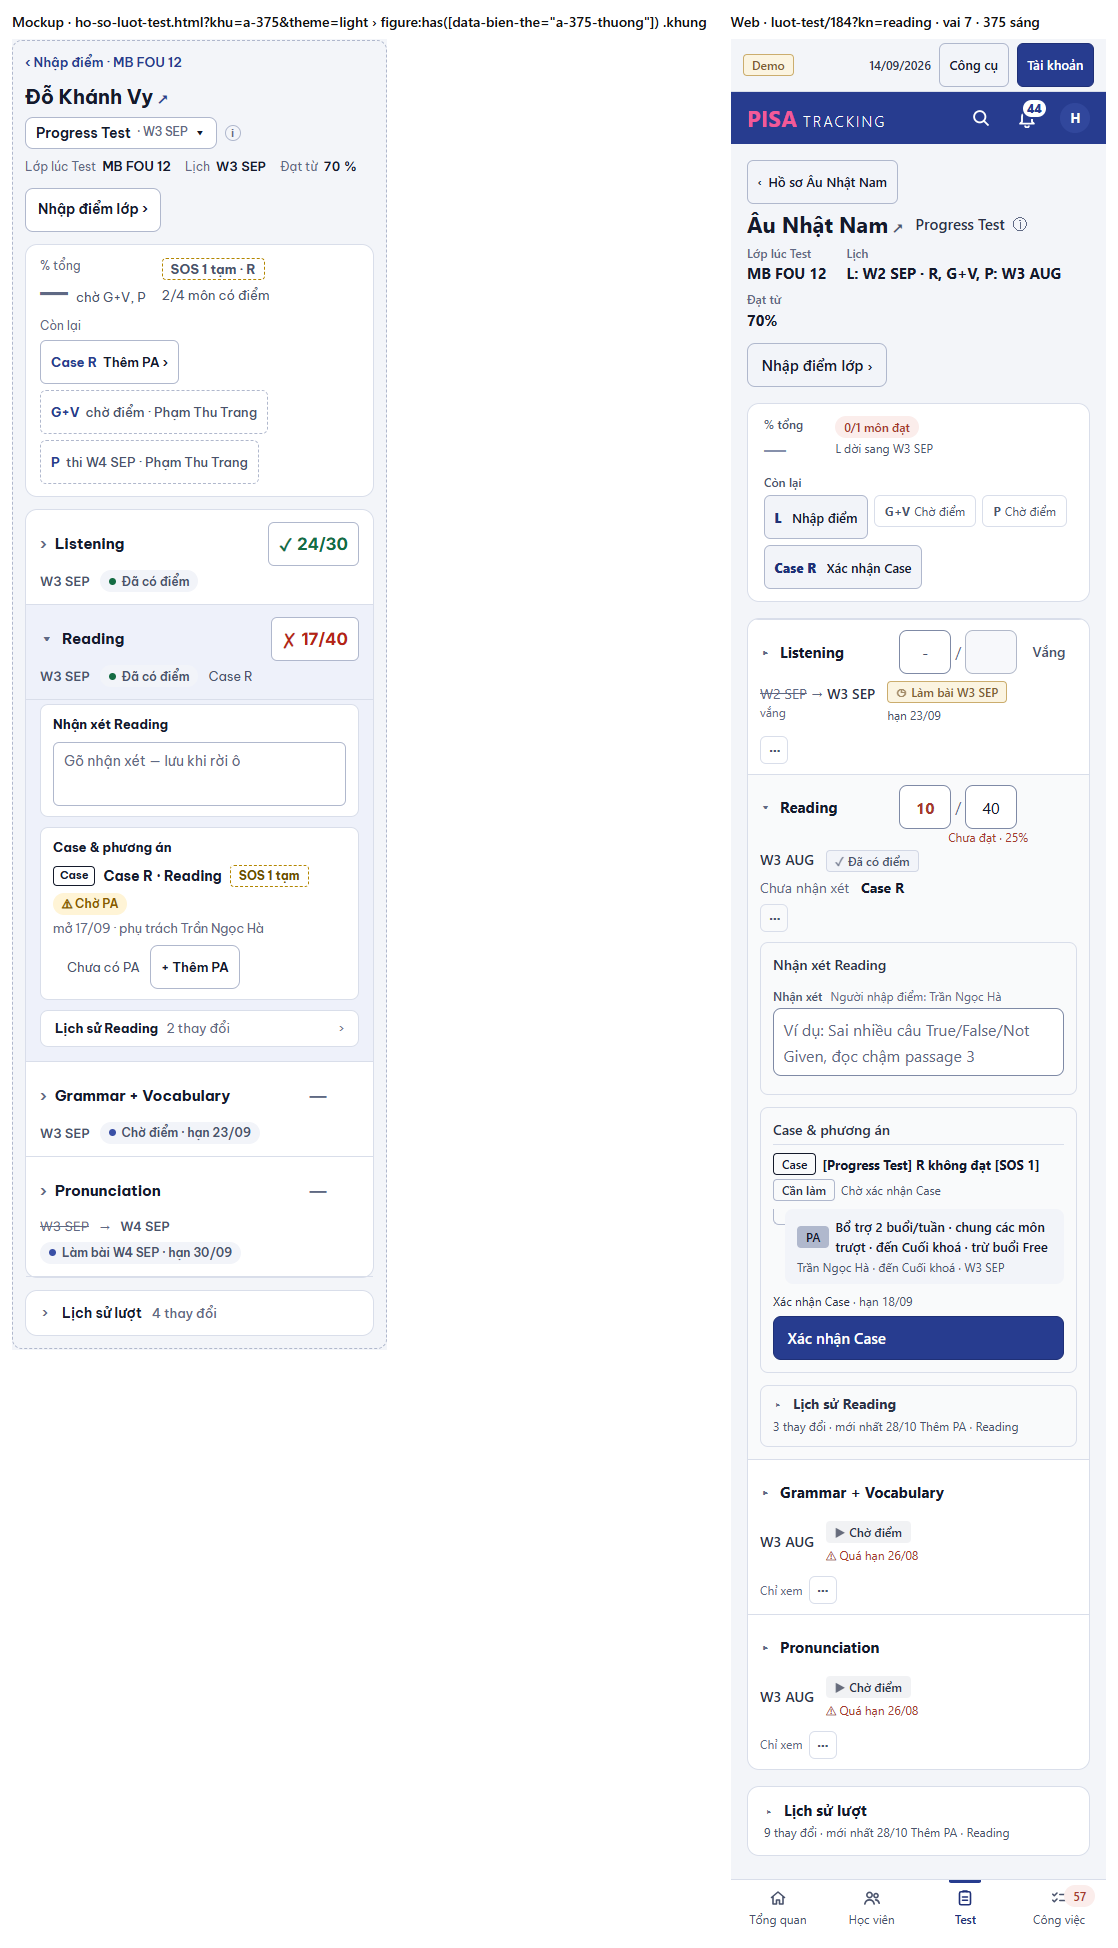
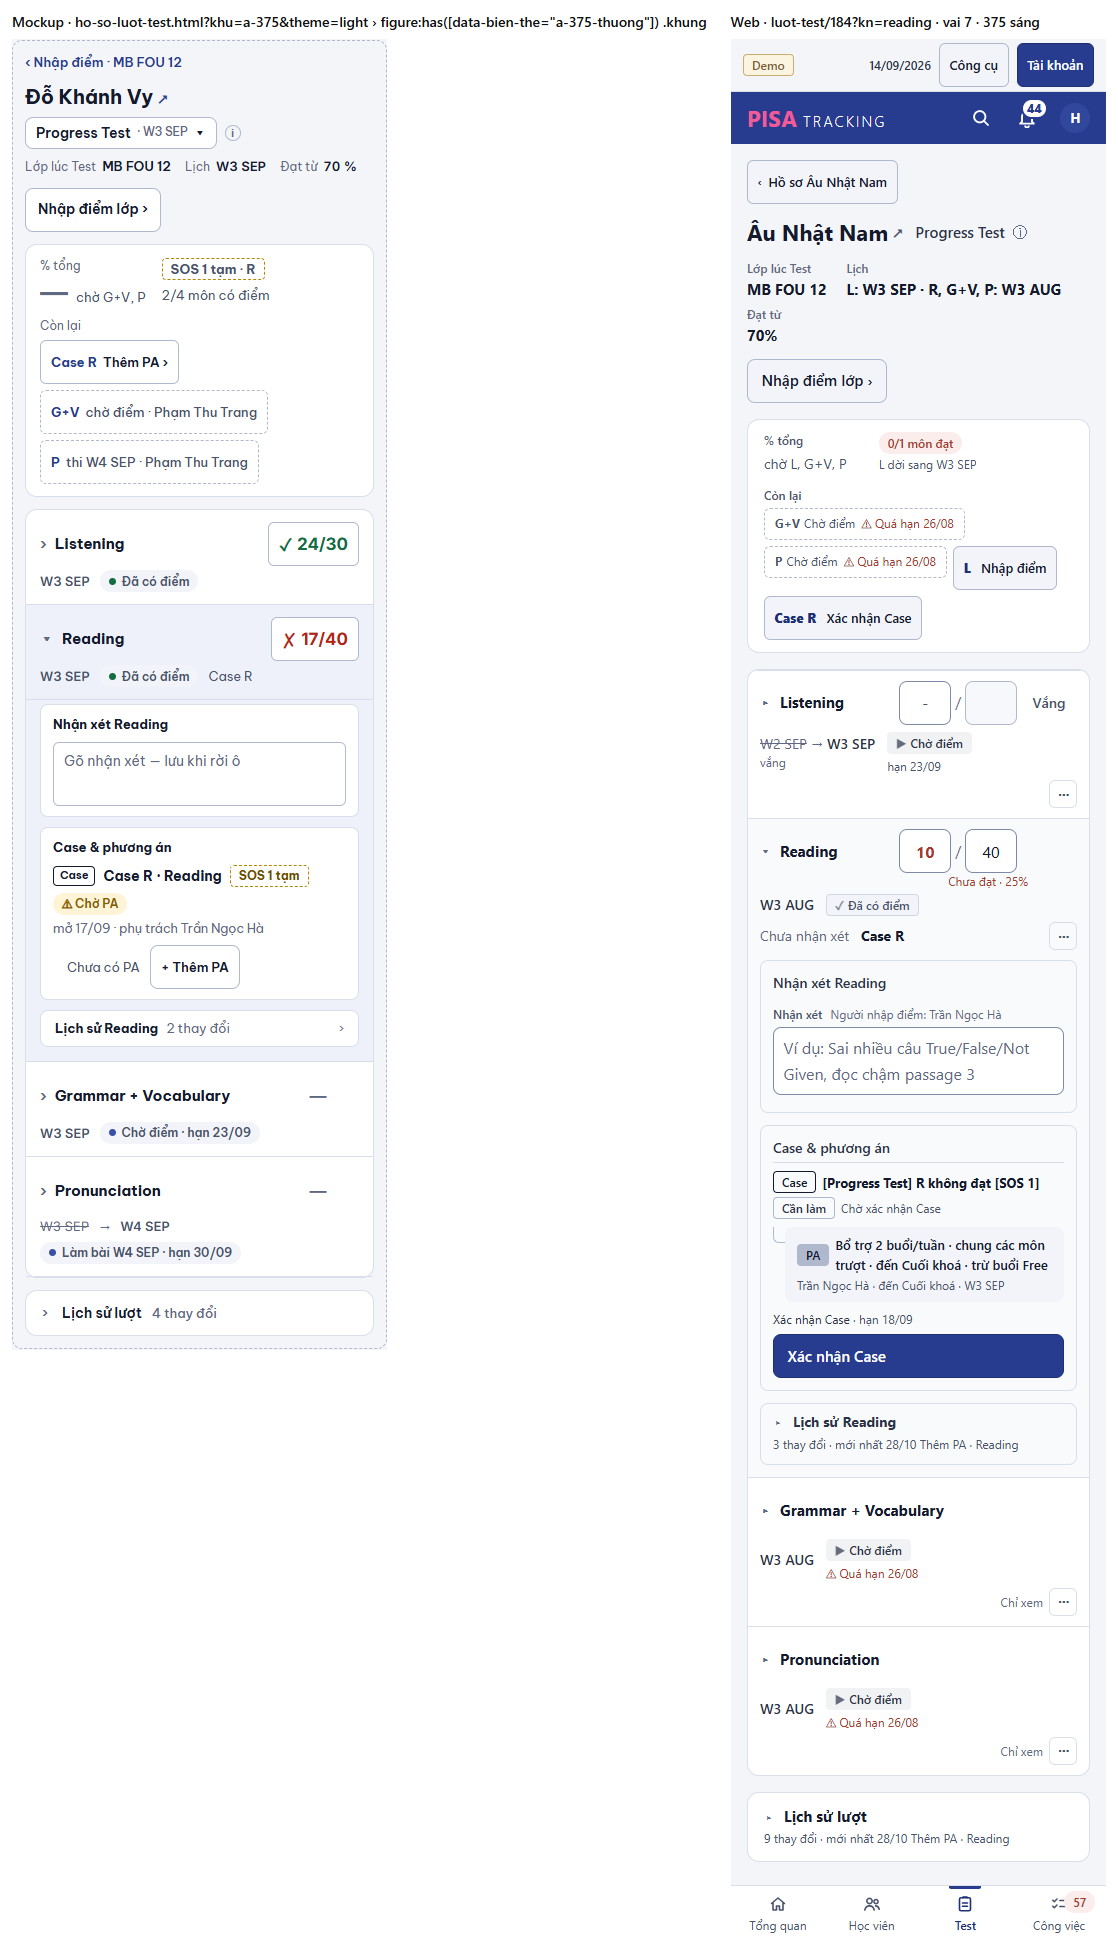
HSL-LT: sửa theo impeccable critique (28 → 31/40, 0 P0/P1): kết quả bằng chữ ✗/✓ Đạt · %, một môn một tên trạng thái, quá hạn ở Còn lại (viền đứt cho việc người khác), cột Case đúng trạng thái, aria-colindex, ⋯ cùng hàng ở 375; khop-khac ghi điểm + tỉ lệ KHỚP, XM Để sau

diff --git a/web/src/modules/fasttrack/LuotThuongPage.tsx b/web/src/modules/fasttrack/LuotThuongPage.tsx
@@ -28,7 +28,7 @@ import { KetQua, oThuong, useLuuThuong, type ThuongSheet } from '../cham/LuoiThu
 import { DauO, VIEN_LOI } from '../cham/LuoiFT.tsx';
 import { NganLichSuBai } from '../cham/NganLichSuBai.tsx';
 import { HopThaoTacMt, THAO_TAC_CO_HOP } from './HopThaoTacMt.tsx';
-import { KHOA_HOAN_TAT_HINT, ODiemThuong } from './ScoreEntry.tsx';
+import { KHOA_HOAN_TAT_HINT, ODiemThuong, datPhanTram } from './ScoreEntry.tsx';
 import { ONhanXet } from './NhanXet.tsx';
 import { CaseLuotKn } from './CaseLuotKn.tsx';
 import { dongLuot, type LichSuCase } from './DongThoiGianLuot.tsx';
@@ -142,7 +142,7 @@ export default function LuotThuongPage() {
           <div className="flex flex-wrap items-center gap-x-3 gap-y-1.5">
             <h1 className="m-0 min-w-0 break-words text-xl font-bold text-slate-100">
               <span className="sr-only">{t('Hồ sơ lượt Test ·')} </span>
-              <Link to={`/hoc-vien/${r.studentId}`} className="text-inherit no-underline hover:underline" title={t('Hồ sơ học viên')}>
+              <Link to={`/hoc-vien/${r.studentId}`} className="text-inherit no-underline hover:underline max-sm:inline-flex max-sm:min-h-[44px] max-sm:items-center" title={t('Hồ sơ học viên')}>
                 {r.studentName}<span aria-hidden className="ml-1 text-base text-slate-400">↗</span>
               </Link>
             </h1>
@@ -154,7 +154,6 @@ export default function LuotThuongPage() {
                 <dl className="m-0 grid gap-2">
                   <Info label={t('Chương trình')}>{d.programme.name}</Info>
                   {d.class.branchName && <Info label={t('Chi nhánh')}>{d.class.branchName}</Info>}
-                  <Info label={t('Hạn chấm')}>{r.deadline ? t('hạn {ngay}', { ngay: ngay(r.deadline, homNay) }) : '—'}</Info>
                 </dl>
               </NutLuat>
             </span>
@@ -173,11 +172,11 @@ export default function LuotThuongPage() {
       <section aria-label={t('Tóm tắt lượt')} className="card flex flex-wrap items-start gap-x-8 gap-y-3 px-4 py-3">
         <div className="min-w-0">
           <span className="block text-xs font-medium text-slate-400">{t('% tổng')}</span>
-          {/* Chỉ khi đủ môn (`tyLeTong`); môn còn thiếu đã nằm ở dòng phụ của Kết quả — không lặp. */}
+          {/* Chỉ khi đủ môn (`tyLeTong`); chưa đủ → "chờ G+V, P" (khung) thay dấu "—" to. */}
           <span className="mt-1 block">
             {r.result.tyLeTong != null
               ? <span className="text-xl font-bold leading-none tabular-nums text-slate-100">{Math.round(r.result.tyLeTong * 100)}%</span>
-              : <span className="text-xl font-bold leading-none text-slate-600">—</span>}
+              : <span className="text-sm text-slate-400">{huy ? '—' : t('chờ {x}', { x: r.result.skills.filter((x) => x.outcome === 'missing').map((x) => tenMonNgan(ct, x.skill)).join(', ') })}</span>}
           </span>
         </div>
         <div className="min-w-0 sm:pt-4">
@@ -190,13 +189,14 @@ export default function LuotThuongPage() {
       <section aria-label={t('Kết quả theo môn')} className="card overflow-hidden p-0">
         <div role="table" aria-label={t('Kết quả theo môn')}>
           <div role="row" className={`${LUOI_MON} hidden px-3 py-2 text-[12px] font-semibold text-slate-500 md:grid`}>
-            <div role="columnheader">{t('Môn')}</div>
-            <div role="columnheader">{t('Lịch')}</div>
-            <div role="columnheader">{t('Điểm')}</div>
-            <div role="columnheader">{t('Trạng thái')}</div>
-            <div role="columnheader">{t('Nhận xét')}</div>
-            <div role="columnheader">Case</div>
-            <div role="columnheader"><span className="sr-only">{t('Thao tác')}</span></div>
+            {/* aria-colindex: ô Điểm đứng trước ô Lịch trong DOM (thẻ 375) — trình đọc màn vẫn ghép đúng tên cột. */}
+            <div role="columnheader" aria-colindex={1}>{t('Môn')}</div>
+            <div role="columnheader" aria-colindex={2}>{t('Lịch')}</div>
+            <div role="columnheader" aria-colindex={3}>{t('Điểm')}</div>
+            <div role="columnheader" aria-colindex={4}>{t('Trạng thái')}</div>
+            <div role="columnheader" aria-colindex={5}>{t('Nhận xét')}</div>
+            <div role="columnheader" aria-colindex={6}>Case</div>
+            <div role="columnheader" aria-colindex={7}><span className="sr-only">{t('Thao tác')}</span></div>
           </div>
           {d.programme.skills.filter((k) => r.skillSchedule.some((s) => s.skill === k)).map((k) => (
             <DongMon key={k} d={d} k={k} homNay={homNay} chiDoc={chiDoc} hep={hep} luu={luu} mo={moKn === k} thaoTac={thaoTac(k)}
@@ -246,13 +246,12 @@ export default function LuotThuongPage() {
   );
 }
 
-/** Tuần thi của lượt: một tuần → tuần đó; nhiều tuần → "L, R: W3 SEP · P: W4 SEP". Môn dời bằng "-" giữ tuần gốc (cột Lịch ghi tuần mới). */
+/** Tuần thi của lượt: một tuần → tuần đó; nhiều tuần → "L, R: W3 SEP · P: W4 SEP". Tuần đang xếp của từng môn (môn dời bằng "-": tuần gốc gạch ở cột Lịch). */
 function tuanLuot(r: Dong, ct: string | null, homNay: string): string | null {
   const nhom: { tuan: string; mon: string[] }[] = [];
   for (const s of r.skillSchedule) {
-    const w = s.noShow && s.movedFromStart ? s.movedFromStart : s.weekStart;
-    if (!w) continue;
-    const tuan = tuanLich(w, homNay);
+    if (!s.weekStart) continue;
+    const tuan = tuanLich(s.weekStart, homNay);
     const cu = nhom.find((n) => n.tuan === tuan);
     if (cu) cu.mon.push(tenMonNgan(ct, s.skill)); else nhom.push({ tuan, mon: [tenMonNgan(ct, s.skill)] });
   }
@@ -287,16 +286,16 @@ function conLaiThuong(d: ChiTiet, homNay: string, theCase: Map<number, CaseCard>
   for (const k of d.programme.skills) {
     const s = r.skillSchedule.find((x) => x.skill === k);
     if (!s) continue;
-    const { cell, trong } = oThuong(r, k, homNay);
+    const { cell, trong, quaHan } = oThuong(r, k, homNay);
     const n = tenMonNgan(ct, k);
-    const cua = (viec: string, chon: string | null) => ds.push({ khoa: `${k}:${viec}`, nhan: n, viec, mo: chon !== null && !chiDoc ? () => mo.moDong(k, chon) : undefined });
+    const cua = (viec: string, chon: string | null) => ds.push({ khoa: `${k}:${viec}`, nhan: n, viec, quaHan, mo: chon !== null && !chiDoc ? () => mo.moDong(k, chon) : undefined });
     if (cell.diem !== null || s.khongDuThi) continue;
     if (s.progress === 'absent') {
       const chinh = thaoTac(k).chinh;
       cua(CHU_THAO_TAC['xep-lai'], chinh === 'xep-lai' ? '[data-chinh]' : null);
     } else if (trong) cua(CHU_THAO_TAC['nhap-diem'], 'input');
     else if (s.progress === 'due' || s.progress === 'sat') cua(t('Chờ điểm'), null);
-    else if (s.noShow && s.weekStart) cua(t('Làm bài {tuan}', { tuan: tuanLich(s.weekStart, homNay) }), null);
+    else if (s.progress === 'upcoming' && s.noShow && s.weekStart) cua(t('Làm bài {tuan}', { tuan: tuanLich(s.weekStart, homNay) }), null);
   }
   for (const c of r.cases) {
     const the = theCase.get(c.id);
@@ -314,7 +313,7 @@ function conLaiThuong(d: ChiTiet, homNay: string, theCase: Map<number, CaseCard>
 function DongMon({ d, k, homNay, chiDoc, hep, luu, mo, thaoTac, caseChu, onMo, onThaoTac, onLichSu, vungCase, lichSu }: {
   d: ChiTiet; k: string; homNay: string; chiDoc: boolean; hep: boolean; luu: ReturnType<typeof useLuuThuong>;
   mo: boolean; thaoTac: { chinh: ThaoTac | null; menu: ThaoTac[] };
-  /** Trạng thái Case đại diện của môn (thẻ hồ sơ HV — `trangThaiV4`), dòng phụ cột Case. */
+  /** Dòng phụ cột Case: trạng thái Case đại diện của môn (thẻ hồ sơ HV — `trangThaiV4`), cùng chữ với khối Case. */
   caseChu: string | null;
   onMo: () => void; onThaoTac: (x: ThaoTac) => void; onLichSu: () => void; vungCase: ReactNode; lichSu: ReactNode;
 }) {
@@ -330,7 +329,7 @@ function DongMon({ d, k, homNay, chiDoc, hep, luu, mo, thaoTac, caseChu, onMo, o
   const tt: { chu: string; kind: 'done' | 'idle' | 'doing' | 'waiting' } = coDiem ? { chu: t('Đã có điểm'), kind: 'done' }
     : s.khongDuThi ? { chu: t('Vắng'), kind: 'idle' }
     : dung ? { chu: chuDung!, kind: s.progress === 'absent' ? 'waiting' : 'idle' }
-    : s.progress === 'upcoming' || (s.noShow && s.weekStart) ? { chu: t('Làm bài {tuan}', { tuan: s.weekStart ? tuanLich(s.weekStart, homNay) : '—' }), kind: 'waiting' }
+    : s.progress === 'upcoming' ? { chu: t('Làm bài {tuan}', { tuan: s.weekStart ? tuanLich(s.weekStart, homNay) : '—' }), kind: 'waiting' }
     : { chu: t('Chờ điểm'), kind: 'doing' };
   const han = !coDiem && !dung && !s.khongDuThi && s.deadline ? (quaHan ?? t('hạn {ngay}', { ngay: ngay(s.deadline, homNay) })) : null;
   const cs = r.cases.filter((c) => c.skill === k);
@@ -340,13 +339,13 @@ function DongMon({ d, k, homNay, chiDoc, hep, luu, mo, thaoTac, caseChu, onMo, o
   return (
     <div className={`border-t ${mo ? 'bg-white/[0.025]' : ''}`} style={{ borderColor: 'var(--line)' }}>
       <div id={`kn-${k}`} role="row" onClick={bamDong} className={`${LUOI_MON} cursor-pointer scroll-mt-4 px-3 py-2.5`}>
-        <div role="cell" className="min-w-0">
+        <div role="cell" aria-colindex={1} className="min-w-0">
           <button type="button" aria-expanded={mo} aria-controls={mo ? `vung-${k}` : undefined} onClick={onMo}
             className="inline-flex min-h-[44px] items-center gap-2 border-0 bg-transparent p-0 text-left text-[15px] font-bold text-slate-100 sm:min-h-0">
             <span aria-hidden className="w-3 text-xs text-slate-500">{mo ? '▾' : '▸'}</span>{ten}
           </button>
         </div>
-        <div role="cell" className={`justify-self-end md:col-start-3 md:row-start-1 md:justify-self-start ${luu.o[k] === 'loi' ? `rounded-md ${VIEN_LOI}` : ''}`} data-kn={k}>
+        <div role="cell" aria-colindex={3} className={`justify-self-end md:col-start-3 md:row-start-1 md:justify-self-start ${luu.o[k] === 'loi' ? `rounded-md ${VIEN_LOI}` : ''}`} data-kn={k}>
           <span className="inline-flex flex-col items-end gap-0.5 md:items-start">
             <span className="inline-flex items-center gap-1">
               <DauO lon={hep} tt={luu.o[k]} loi={luu.loi[k]} onLuuLai={() => luu.luuLai(k)} />
@@ -355,14 +354,16 @@ function DongMon({ d, k, homNay, chiDoc, hep, luu, mo, thaoTac, caseChu, onMo, o
                   onSave={(p, o) => luu.luu(k, p, o)} onDau={(bat) => luu.dau(k, bat)} onLoiNhap={(x) => luu.loiNhap(k, x)} />
               )}
             </span>
-            {/* Ô cỡ lớn (375) đã có "Đạt · 80%" dưới hai số. */}
-            {coDiem && cell.tiLe != null && !hep && (
-              <span className={`text-xs tabular-nums ${cell.ketQua === 'fail' ? 'text-kq-duoi' : 'text-slate-400'}`}>{Math.round(cell.tiLe * 100)}%</span>
+            {/* Kết quả bằng chữ, không chỉ màu (G12): "✗ Chưa đạt · 25%" — ô cỡ lớn (375) tự có "Chưa đạt · 25%" dưới hai số. */}
+            {coDiem && !hep && datPhanTram(cell.ketQua, cell.tiLe) && (
+              <span className={`text-xs tabular-nums ${cell.ketQua === 'fail' ? 'text-kq-duoi' : 'text-slate-400'}`}>
+                {cell.ketQua === 'fail' ? '✗ ' : '✓ '}{datPhanTram(cell.ketQua, cell.tiLe)}
+              </span>
             )}
           </span>
         </div>
         <div className="col-span-2 flex flex-wrap items-center gap-x-3 gap-y-1 md:contents">
-          <div role="cell" className="text-sm md:col-start-2 md:row-start-1">
+          <div role="cell" aria-colindex={2} className="text-sm md:col-start-2 md:row-start-1">
             {s.weekStart ? (
               <span className="tabular-nums">
                 {goc && <><s className="whitespace-nowrap text-slate-500" title={t('Lịch gốc')}>{goc}</s><span className="mx-1 text-slate-500">→</span></>}
@@ -371,18 +372,18 @@ function DongMon({ d, k, homNay, chiDoc, hep, luu, mo, thaoTac, caseChu, onMo, o
               </span>
             ) : <Tag pending>{t('Chưa xếp tuần')}</Tag>}
           </div>
-          <div role="cell" className="min-w-0 space-y-1 md:col-start-4 md:row-start-1">
+          <div role="cell" aria-colindex={4} className="min-w-0 space-y-1 md:col-start-4 md:row-start-1">
             <Status kind={tt.kind}>{tt.chu}</Status>
             {han && <div className={`text-xs ${quaHan ? 'text-late' : 'text-slate-400'}`}>{quaHan ? `⚠ ${han}` : han}</div>}
           </div>
         </div>
-        <div className="col-span-2 flex flex-wrap items-baseline gap-x-3 gap-y-1 text-sm md:contents">
-          <div role="cell" className="min-w-0 md:col-start-5 md:row-start-1">
+        <div className="col-span-2 flex flex-wrap items-center gap-x-3 gap-y-1 text-sm md:contents">
+          <div role="cell" aria-colindex={5} className="min-w-0 md:col-start-5 md:row-start-1">
             {s.nhanXet ? <span className="text-slate-300">{[t('Có'), nguoiNhap].filter(Boolean).join(' · ')}</span>
               /* N8: lớp thường không bắt buộc nhận xét — chữ mờ, không màu nhắc như FT (V15). */
               : coDiem ? <span className="text-slate-500">{t('Chưa nhận xét')}</span> : <span className="text-slate-500 max-md:hidden">—</span>}
           </div>
-          <div role="cell" className="min-w-0 md:col-start-6 md:row-start-1">
+          <div role="cell" aria-colindex={6} className="min-w-0 md:col-start-6 md:row-start-1">
             {!cs.length ? <span className="text-slate-500 max-md:hidden">—</span> : (
               <span className="flex min-w-0 flex-col">
                 <b className="text-slate-100">Case {tenMonNgan(ct, k)}{cs.length > 1 && <span className="font-normal text-slate-400"> +{cs.length - 1}</span>}</b>
@@ -390,18 +391,19 @@ function DongMon({ d, k, homNay, chiDoc, hep, luu, mo, thaoTac, caseChu, onMo, o
               </span>
             )}
           </div>
-        </div>
-        <div role="cell" className="col-span-2 flex flex-wrap items-center gap-1.5 md:col-span-1 md:col-start-7 md:row-start-1 md:justify-end">
-          {thaoTac.chinh && !chiDoc && (
-            <button type="button" data-chinh className="btn btn-sm btn-primary min-h-[44px] sm:min-h-0" onClick={() => onThaoTac(thaoTac.chinh!)}>{CHU_THAO_TAC[thaoTac.chinh]}</button>
-          )}
-          {!thaoTac.chinh && !chiDoc && !canEdit && !huy && (
-            <span className="text-xs text-slate-500" title={t('Bạn không được phân công kỹ năng này')}>{t('Chỉ xem')}</span>
-          )}
-          <MenuDong nhan={t('Thao tác khác · {skillLabel}', { skillLabel: ten })} muc={[
-            ...(chiDoc ? [] : thaoTac.menu).map((x) => ({ key: x, nhan: CHU_THAO_TAC[x], onChon: () => onThaoTac(x), nguyHiem: x === 'huy-diem' })),
-            { key: 'lich-su', nhan: t('Lịch sử'), onChon: onLichSu, keTruoc: !chiDoc && thaoTac.menu.length > 0 },
-          ]} />
+          {/* ⋯ cùng hàng Nhận xét · Case ở điện thoại; màn rộng là cột cuối (md:contents). */}
+          <div role="cell" aria-colindex={7} className="ml-auto flex flex-wrap items-center gap-1.5 md:col-start-7 md:row-start-1 md:ml-0 md:justify-end">
+            {thaoTac.chinh && !chiDoc && (
+              <button type="button" data-chinh className="btn btn-sm btn-primary min-h-[44px] sm:min-h-0" onClick={() => onThaoTac(thaoTac.chinh!)}>{CHU_THAO_TAC[thaoTac.chinh]}</button>
+            )}
+            {!thaoTac.chinh && !chiDoc && !canEdit && !huy && (
+              <span className="text-xs text-slate-500" title={t('Bạn không được phân công kỹ năng này')}>{t('Chỉ xem')}</span>
+            )}
+            <MenuDong nhan={t('Thao tác khác · {skillLabel}', { skillLabel: ten })} muc={[
+              ...(chiDoc ? [] : thaoTac.menu).map((x) => ({ key: x, nhan: CHU_THAO_TAC[x], onChon: () => onThaoTac(x), nguyHiem: x === 'huy-diem' })),
+              { key: 'lich-su', nhan: t('Lịch sử'), onChon: onLichSu, keTruoc: !chiDoc && thaoTac.menu.length > 0 },
+            ]} />
+          </div>
         </div>
       </div>
       {mo && (

diff --git a/web/src/modules/fasttrack/MockDetailPage.tsx b/web/src/modules/fasttrack/MockDetailPage.tsx
@@ -463,15 +463,17 @@ export function ConLaiLuot({ ds: conLai }: { ds: ViecConLai[] }) {
       <span className="block text-xs font-medium text-slate-400">{conLai.length ? t('Còn lại') : t('Không còn việc')}</span>
       {conLai.length > 0 && (
         <ul className="m-0 mt-1 flex list-none flex-wrap gap-1.5 p-0 sm:justify-end">
-          {conLai.map((v) => (
+          {[...conLai].sort((a, b) => Number(!!b.quaHan) - Number(!!a.quaHan)).map((v) => (
             <li key={v.khoa} className="min-w-0 max-w-full">
               {v.mo ? (
                 <button type="button" className="btn btn-sm min-h-[44px] max-w-full sm:min-h-0" onClick={v.mo}>
                   <b className="mr-1 text-[color:var(--accent-strong)]">{v.nhan}</b><span className="min-w-0 max-w-[16rem] truncate" title={v.viec}>{v.viec}</span>
+                  {v.quaHan && <span className="ml-1.5 whitespace-nowrap text-late">⚠ {v.quaHan}</span>}
                 </button>
               ) : (
-                <span className="inline-flex min-h-[32px] items-center rounded-md border px-2.5 text-xs text-slate-400" style={{ borderColor: 'var(--line)' }}>
+                <span className="inline-flex min-h-[32px] items-center rounded-md border border-dashed px-2.5 text-xs text-slate-400" style={{ borderColor: 'var(--line-strong)' }}>
                   <b className="mr-1 text-slate-300">{v.nhan}</b><span className="max-w-[16rem] truncate">{[v.viec, v.ai].filter(Boolean).join(' · ')}</span>
+                  {v.quaHan && <span className="ml-1.5 whitespace-nowrap text-late">⚠ {v.quaHan}</span>}
                 </span>
               )}
             </li>
@@ -482,7 +484,9 @@ export function ConLaiLuot({ ds: conLai }: { ds: ViecConLai[] }) {
   );
 }
 
-export type ViecConLai = { khoa: string; nhan: string; viec: string; ai?: string | null; mo?: () => void };
+export type ViecConLai = { khoa: string; nhan: string; viec: string; ai?: string | null; mo?: () => void;
+  /** HSL-LT: việc đã quá hạn — chữ "⚠ quá hạn dd/mm" (không chỉ màu), xếp đầu danh sách. */
+  quaHan?: string | null };
 
 /**
  * "CÒN LẠI" CỦA LƯỢT (khung M4-A ③, chủ SP 27/10) — chỉ gom việc máy chủ đã có: bài thiếu điểm, thiếu nhận xét (V15), vắng chờ xếp lại, đề nghị
@@ -925,7 +929,7 @@ function BangKetQuaLuot({ d, homNay, chiDoc, moKn, onMoKn, moO, onMoO, save, onD
 export function VungMoKn({ id, nhanXet, caseNode, lichSu }: { id: string; nhanXet: ReactNode; caseNode: ReactNode; lichSu: ReactNode }) {
   return (
     <div role="row"><div role="cell" aria-colspan={7} id={id} className="space-y-3 px-3 pb-3">
-      <div className="grid gap-3 md:grid-cols-2">
+      <div className="grid items-start gap-3 md:grid-cols-2">
         <div className="min-w-0 rounded-lg border p-3" style={{ borderColor: 'var(--line)' }}>{nhanXet}</div>
         <div className="min-w-0 rounded-lg border p-3" style={{ borderColor: 'var(--line)' }}>
           <h2 className="m-0 mb-1 text-sm font-semibold text-slate-200">{t('Case & phương án')}</h2>

diff --git a/shared/i18n/en/hslLt.ts b/shared/i18n/en/hslLt.ts
@@ -4,4 +4,5 @@ export const EN_HSL_LT = {
   'Hồ sơ lượt Test ·': 'Test attempt profile ·',
   'Thông tin lượt Test': 'Test attempt details',
   'Kết quả theo môn': 'Results by subject',
+  'chờ {x}': 'awaiting {x}',
 };
